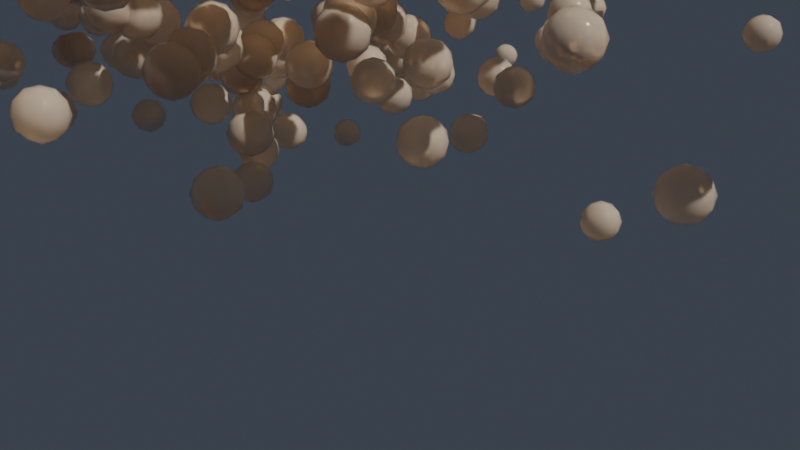
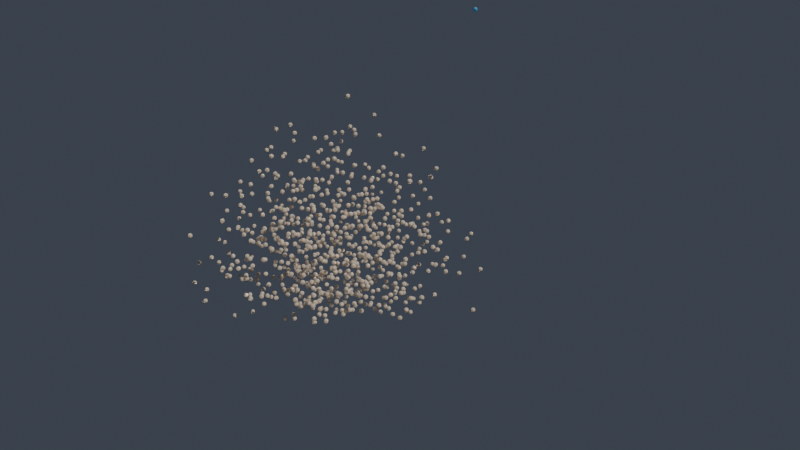
Surface renders
Claude-Session: https://claude.ai/code/session_01FQTVSyCcMVSazjTzMiGcBr

diff --git a/docs/render_surfaces.py b/docs/render_surfaces.py
@@ -29,7 +29,7 @@ for f in range(1, frame + 1):
     sc.frame_set(f)
 fm = sc.arc_flow_fm
 for fl in fm.fluids:
-    fl.particle_scale = 1.5 if which == 'emit' else 0.5
+    fl.particle_scale = 1.5 if which == 'emit' else 0.7
 # every fluid point object stays; hide the helper marker meshes in the render
 for o in bpy.data.objects:
     if o.get('af_volume_points'):
@@ -39,7 +39,7 @@ so = bpy.data.objects.new("TS_Sun", ld); sc.collection.objects.link(so); so.rota
 cam = bpy.data.cameras.new("TS_Cam"); co = bpy.data.objects.new("TS_Cam", cam); sc.collection.objects.link(co); sc.camera = co
 cam.lens = 40
 tgt = mathutils.Vector((0.0, 0, 0.25)) if which == 'emit' else mathutils.Vector((0, 0, 1.3))
-co.location = (0.0, -2.2, 0.8) if which == 'emit' else (0.0, -9.0, 2.5)
+co.location = (0.0, -2.2, 0.8) if which == 'emit' else (0.0, -12.0, 3.0)
 co.rotation_euler = (tgt - co.location).to_track_quat('-Z', 'Y').to_euler()
 w = bpy.data.worlds.new("w"); w.use_nodes = True
 w.node_tree.nodes['Background'].inputs[0].default_value = (0.05, 0.06, 0.08, 1)
